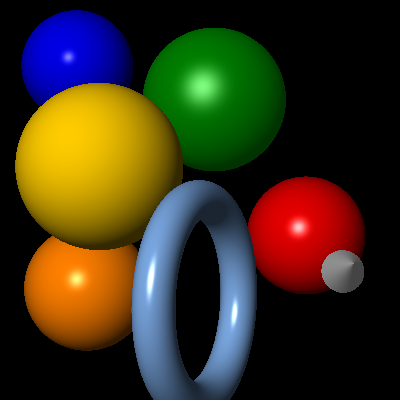
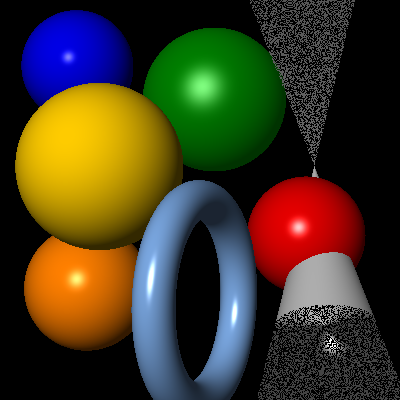
Disc attempt

Changed region(s): [[0.63, 0.6, 1.0, 1.0], [0.63, 0.0, 0.9, 0.45]]

diff --git a/raytracerframework_cpp/cone.cpp b/raytracerframework_cpp/cone.cpp
@@ -51,8 +51,10 @@ Hit Cone::intersect(const Ray &ray)
 	float t1 = (-b - sqrt(disc)) / (2.0*a);
 	float t2 = (-b + sqrt(disc)) / (2.0*a);
 
+	float t3 = solveDisc(TransformedRay, V); //disc handling
+
 	float t = t1;
-	if (t < 0.0 || (t2 > 0.0  && t2 < t)) t = t2;
+	if (t < 0.0 || (t2 > 0.0 && t2 < t)) t = t2;
 	if (t < 0.0) {
 		return Hit::NO_HIT();
 	}
@@ -62,10 +64,17 @@ Hit Cone::intersect(const Ray &ray)
 	double h_intersect = CP.dot(V);
 
 	if (h_intersect < 0. || h_intersect > h) {
-		if(t==t1 && t2 > 0.0)
-			t=t2;
-		else if(t==t2 && t1 > 0.0)
-			t=t1;
+
+		if (t == t1 && t2 > 0.0)
+			t = t2;
+
+		else if (t == t2 && t1 > 0.0) {
+			if (t3 < 0) t = t1;
+			else {
+				t = t3;
+				return Hit(t, V);
+			}
+		}
 
 		intersect = TransformedRay.O + t * TransformedRay.D;
 		CP = ((Vector)(intersect - C));
@@ -82,4 +91,23 @@ Hit Cone::intersect(const Ray &ray)
 	N.normalize();
 
 	return Hit(t, N);
+}
+
+double Cone::solveDisc(const Ray &ray, Vector V) {
+
+	Vector CO = -ray.O; //C - ray.O with C = (0,0,0)
+	Vector N = -V;
+
+	float t = (CO.dot(N) / N.dot(ray.D));
+
+	if (t < 0) return -1.0;
+
+	Vector intersect = ray.O + t * ray.D;
+	double distToCenter = sqrt(intersect.dot(intersect));
+
+	std::cout << intersect << std::endl;
+
+	if (distToCenter > r) return -1.0;
+	
+	return t;
 }

diff --git a/raytracerframework_cpp/cone.h b/raytracerframework_cpp/cone.h
@@ -25,6 +25,7 @@ public:
 	Cone(Point position, Triple rotation, double r, double h) : Object(position, rotation), r(r), h(h) { }
 
 	virtual Hit intersect(const Ray &ray);
+	double solveDisc(const Ray &ray, Vector V);
 
 	const double r;
 	const double h;
